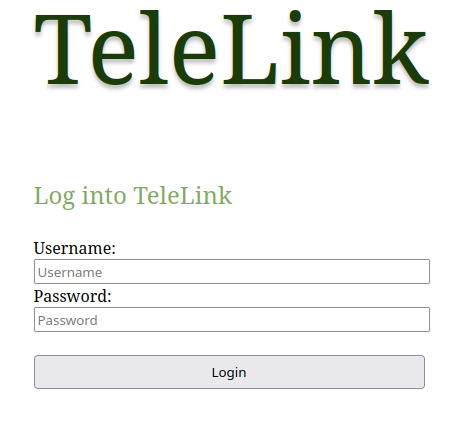
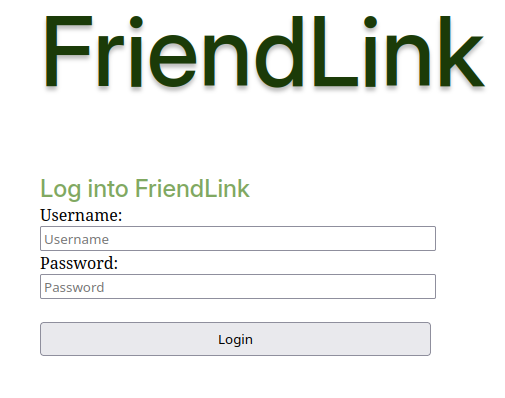
changed login.php to friendlink

Changed region(s): [[0.0597, 0.4221, 0.9254, 0.9347], [0.0597, 0.0, 0.9552, 0.2412]]

diff --git a/pages/login.php b/pages/login.php
@@ -56,9 +56,9 @@ if ($_SERVER["REQUEST_METHOD"] == "POST") {
 <body>
         <?php require("static/header.php");?>
 
-    <h1>TeleLink</h1>
+    <h1>FriendLink</h1>
     <p>
-        Log into TeleLink
+        Log into FriendLink
     </p>
     <form method="POST" action="">
         <label for="username"> Username: </label> <br>
